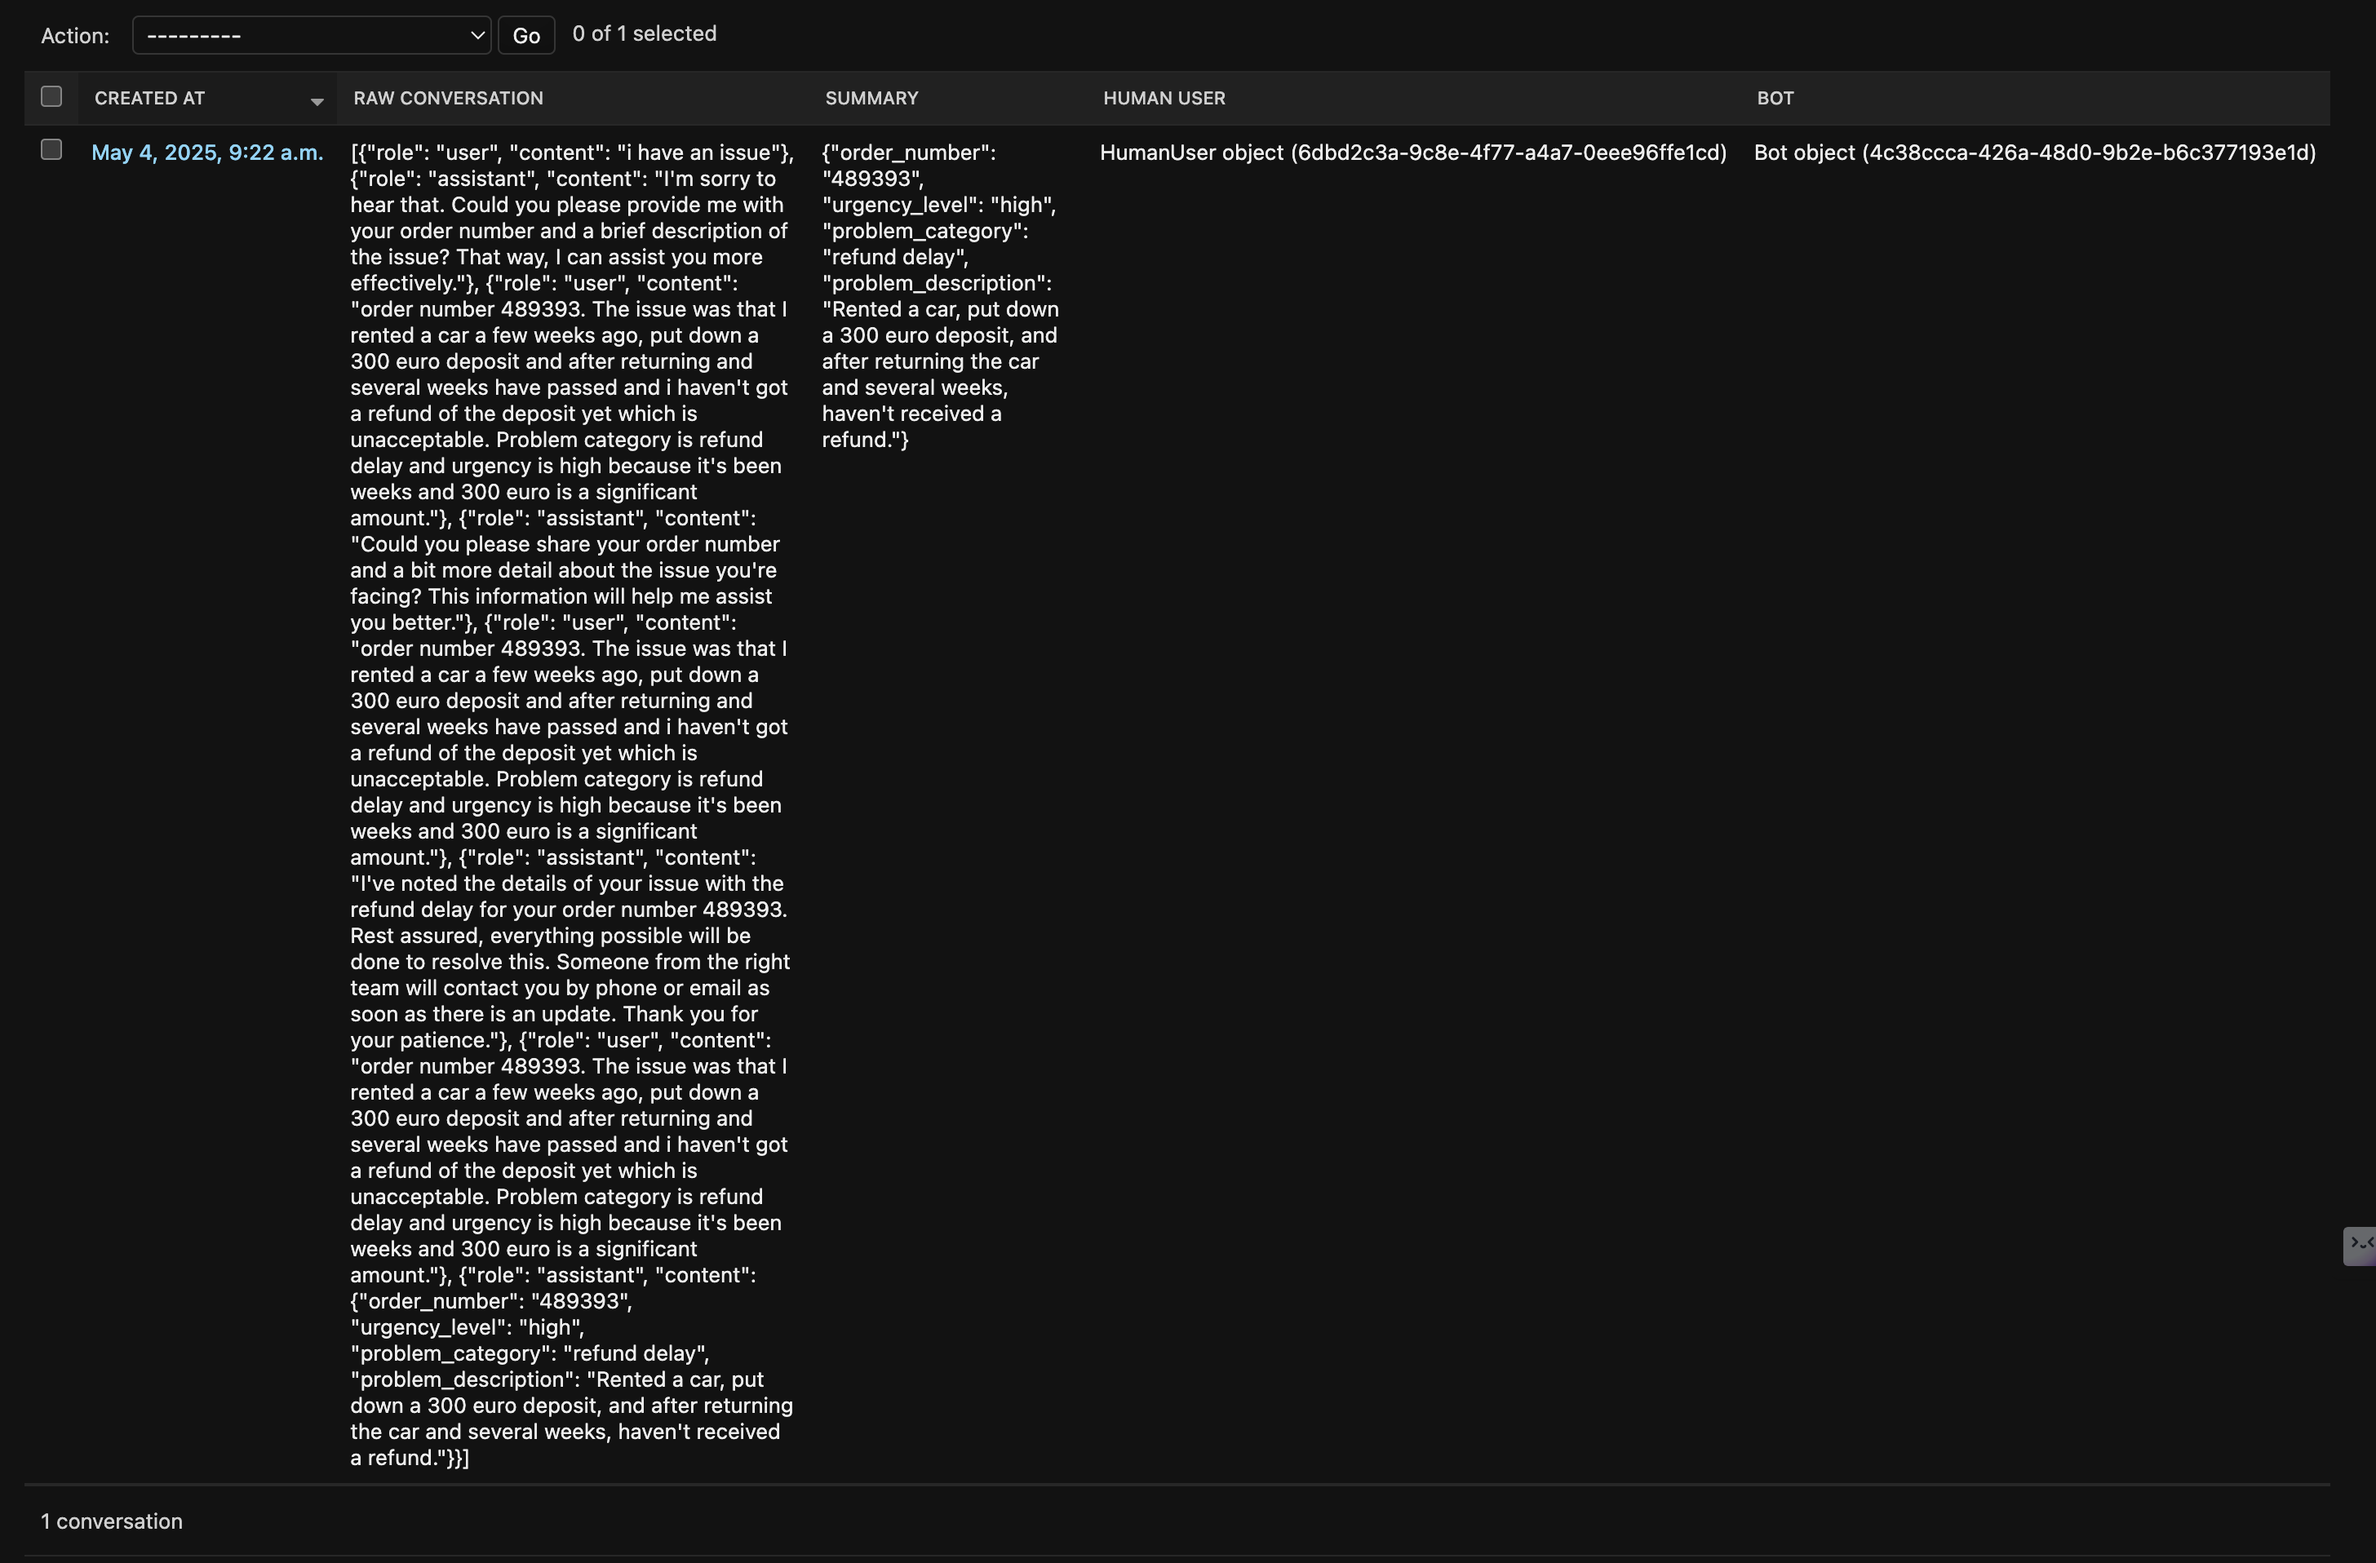
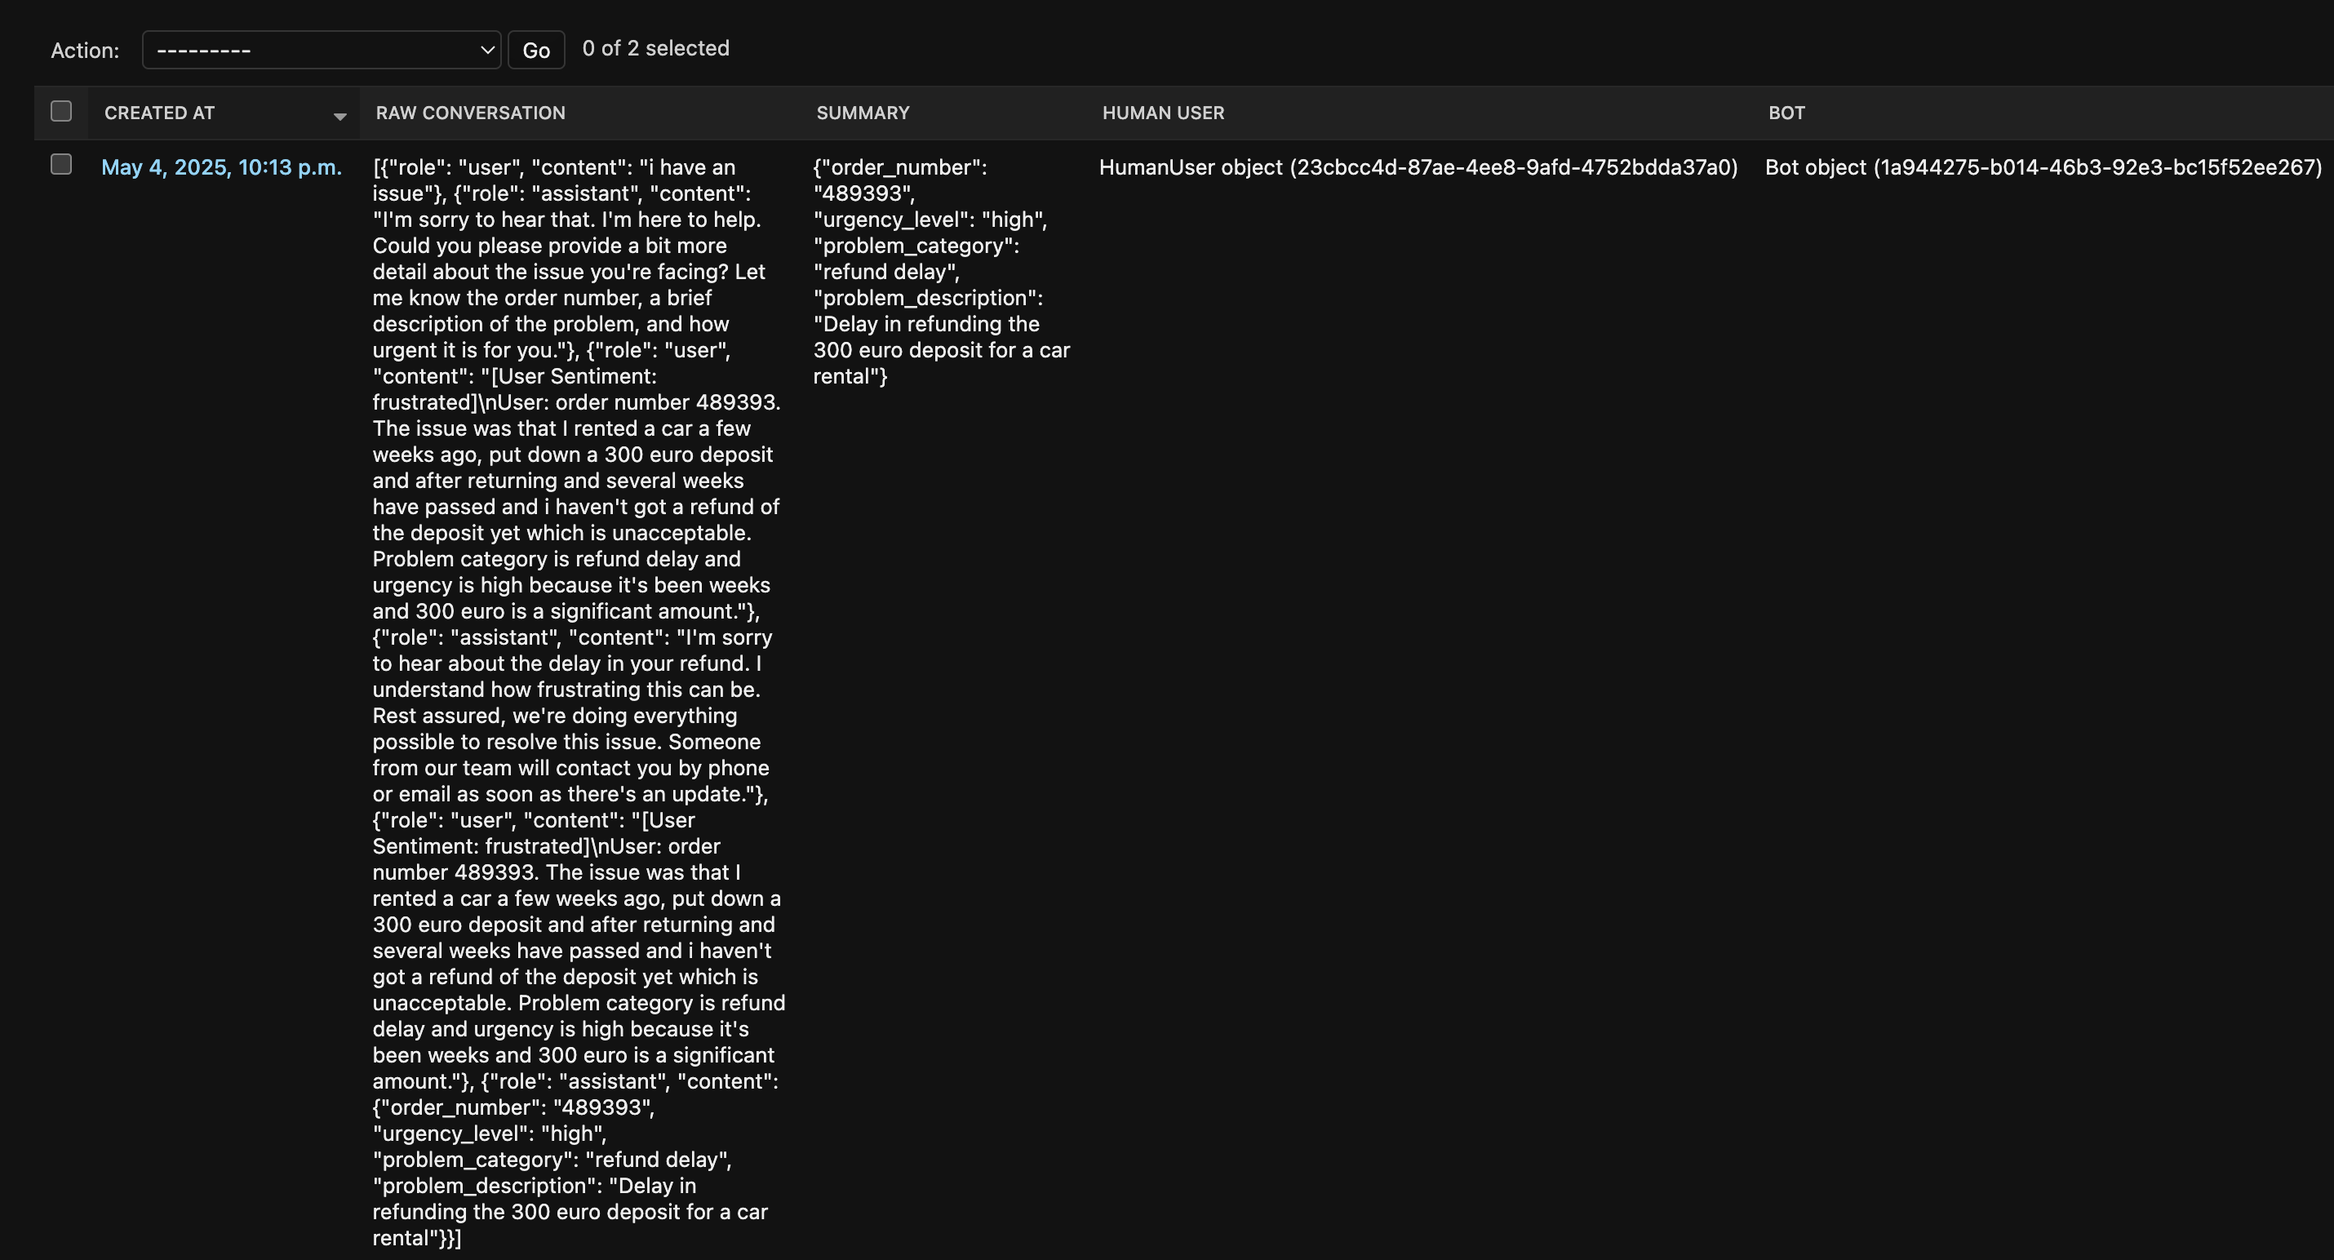
Add logs and image for readme

diff --git a/src/agent/conversations/managers/partial_update.py b/src/agent/conversations/managers/partial_update.py
@@ -28,7 +28,7 @@ class ConversationPartialUpdateManager:
         conversation_to_update = await self._get_conversation(conversation_id)
         sentiment_labelled_user_message = self._detect_and_add_sentiment_label()
         result = await self._run_conversation_service(sentiment_labelled_user_message)
-        logger.info("result.final_output", message=result)
+        logger.info("result.final_output", message=result.final_output)
 
         summary = self._parse_summary(result)
         await self._update_raw_conversation_and_summary(
@@ -36,6 +36,8 @@ class ConversationPartialUpdateManager:
         )
 
         if isinstance(result.final_output, CollectedInfo):
+            logger.info("adapting response")
+            logger.info(result.final_output.model_dump())
             return (
                 f"I received your details {result.final_output.model_dump()}, thanks!"
             )
